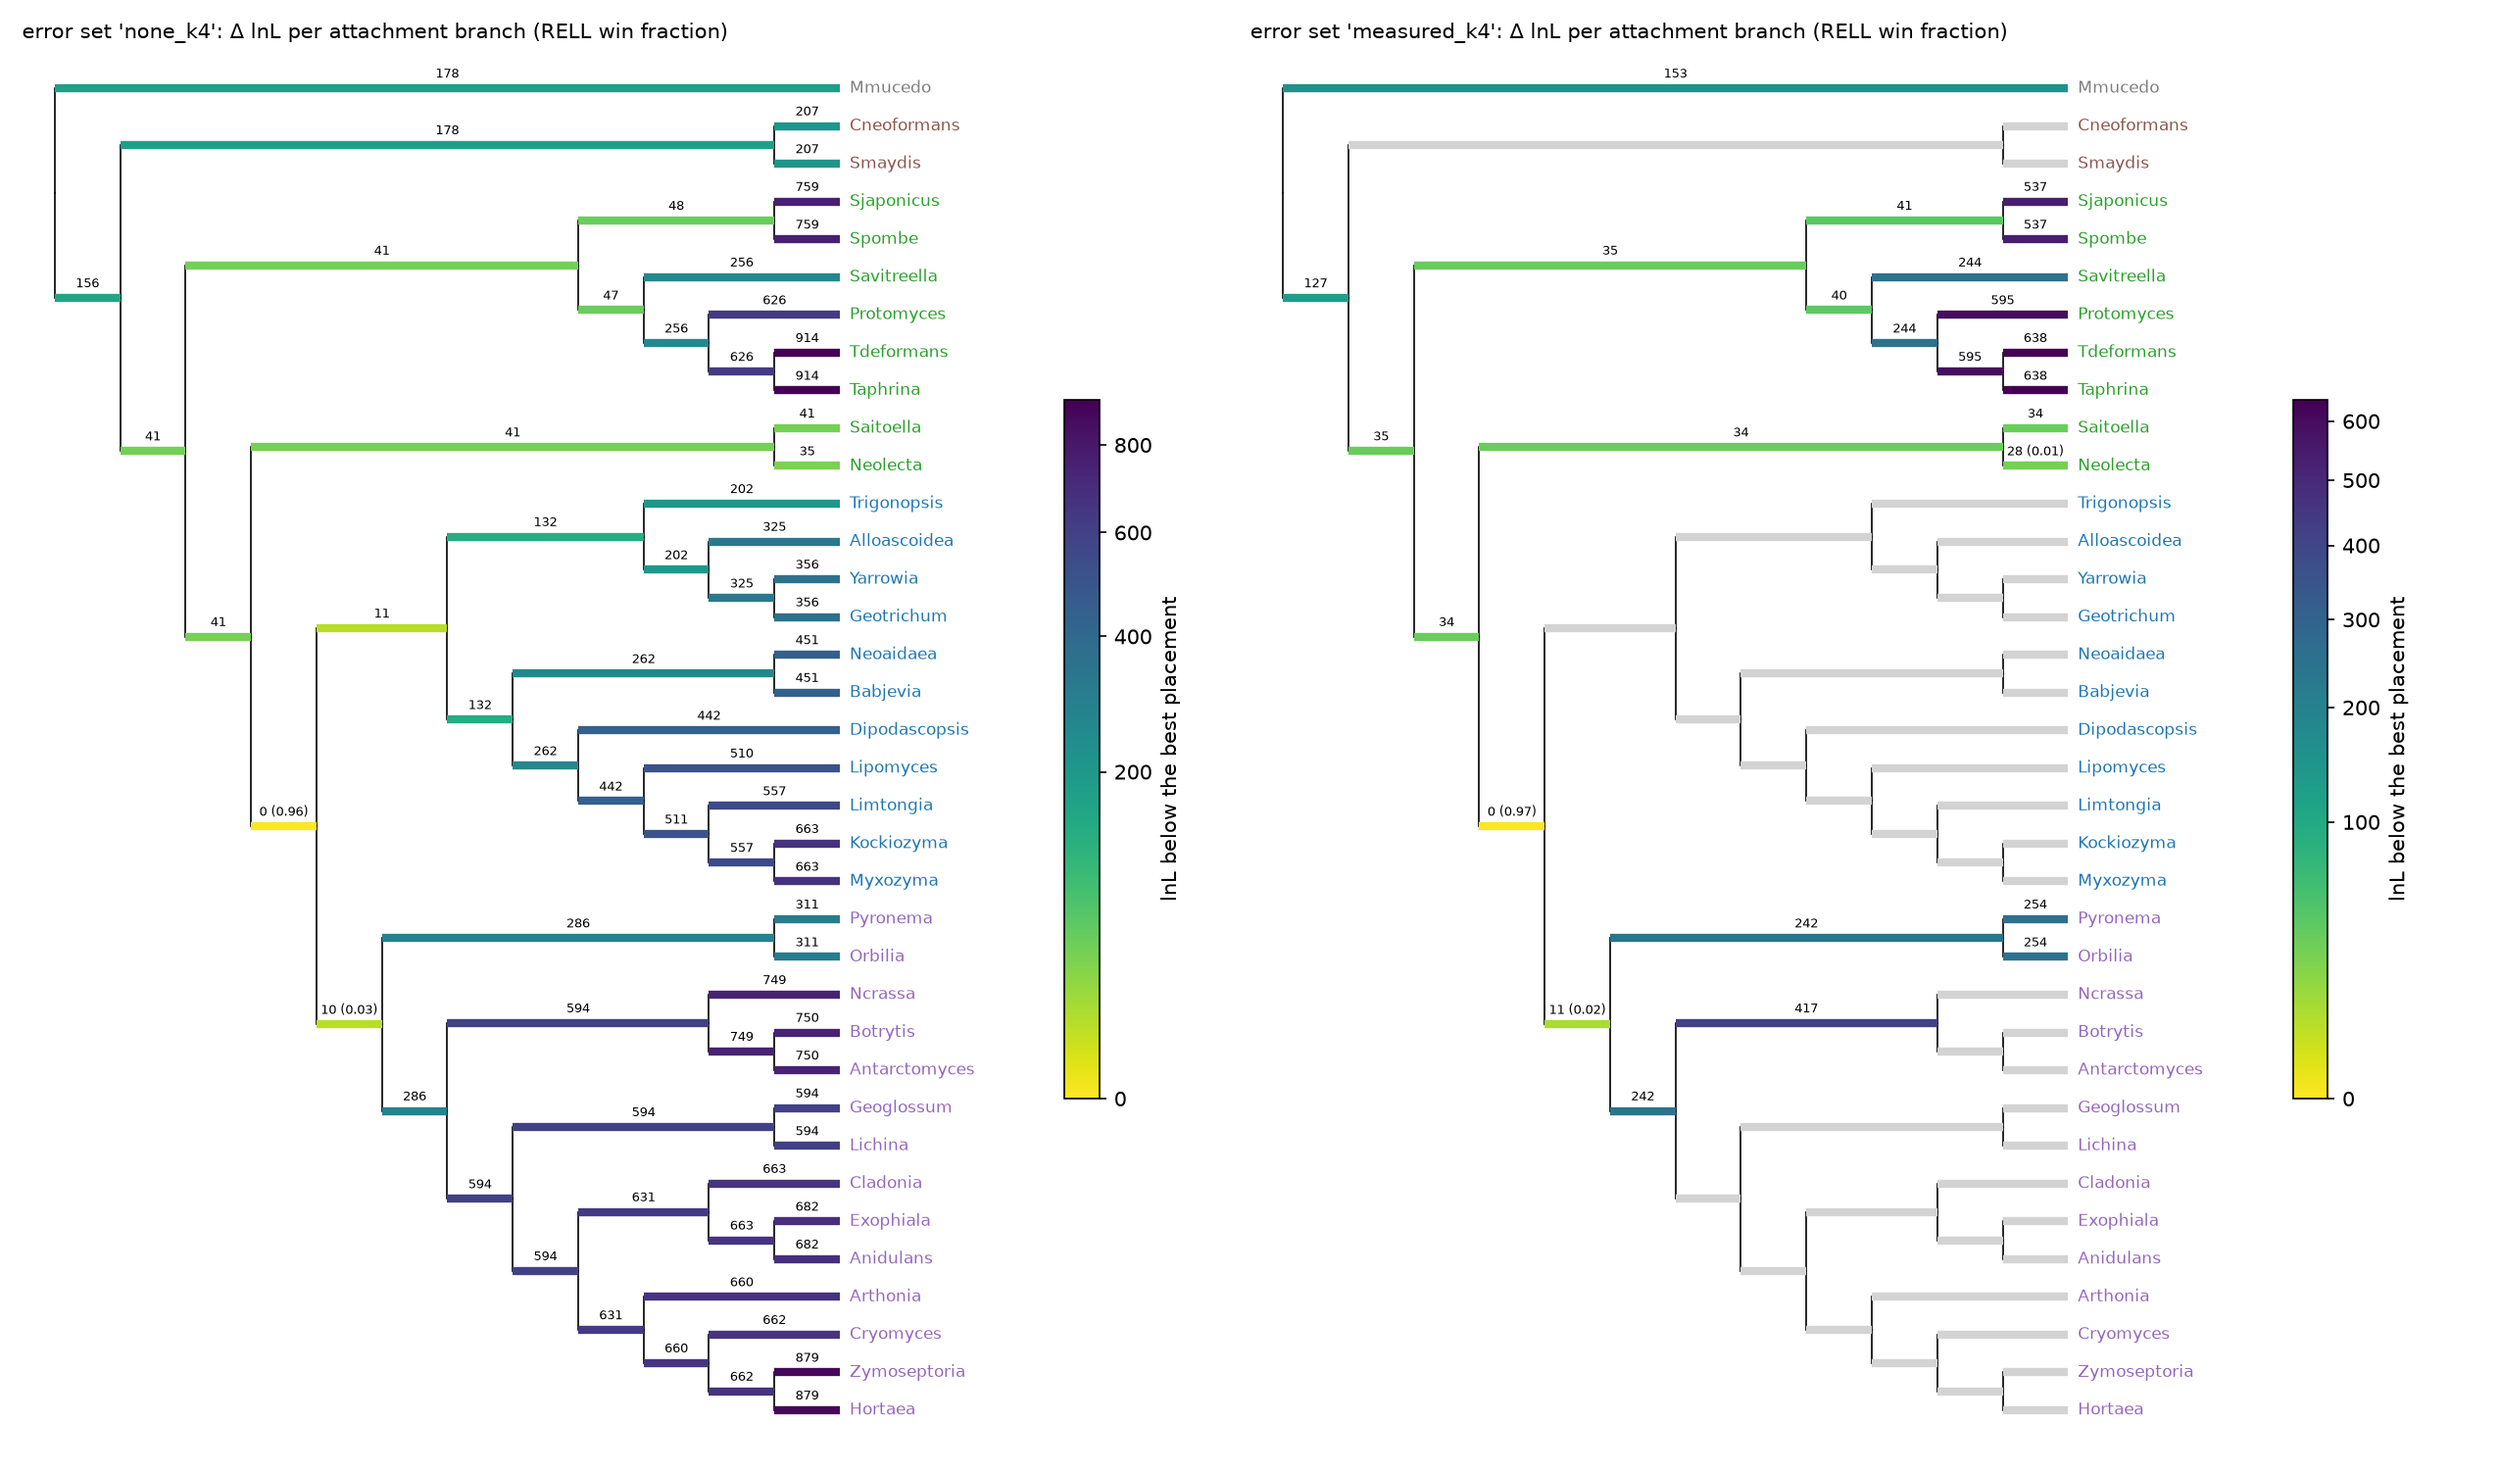
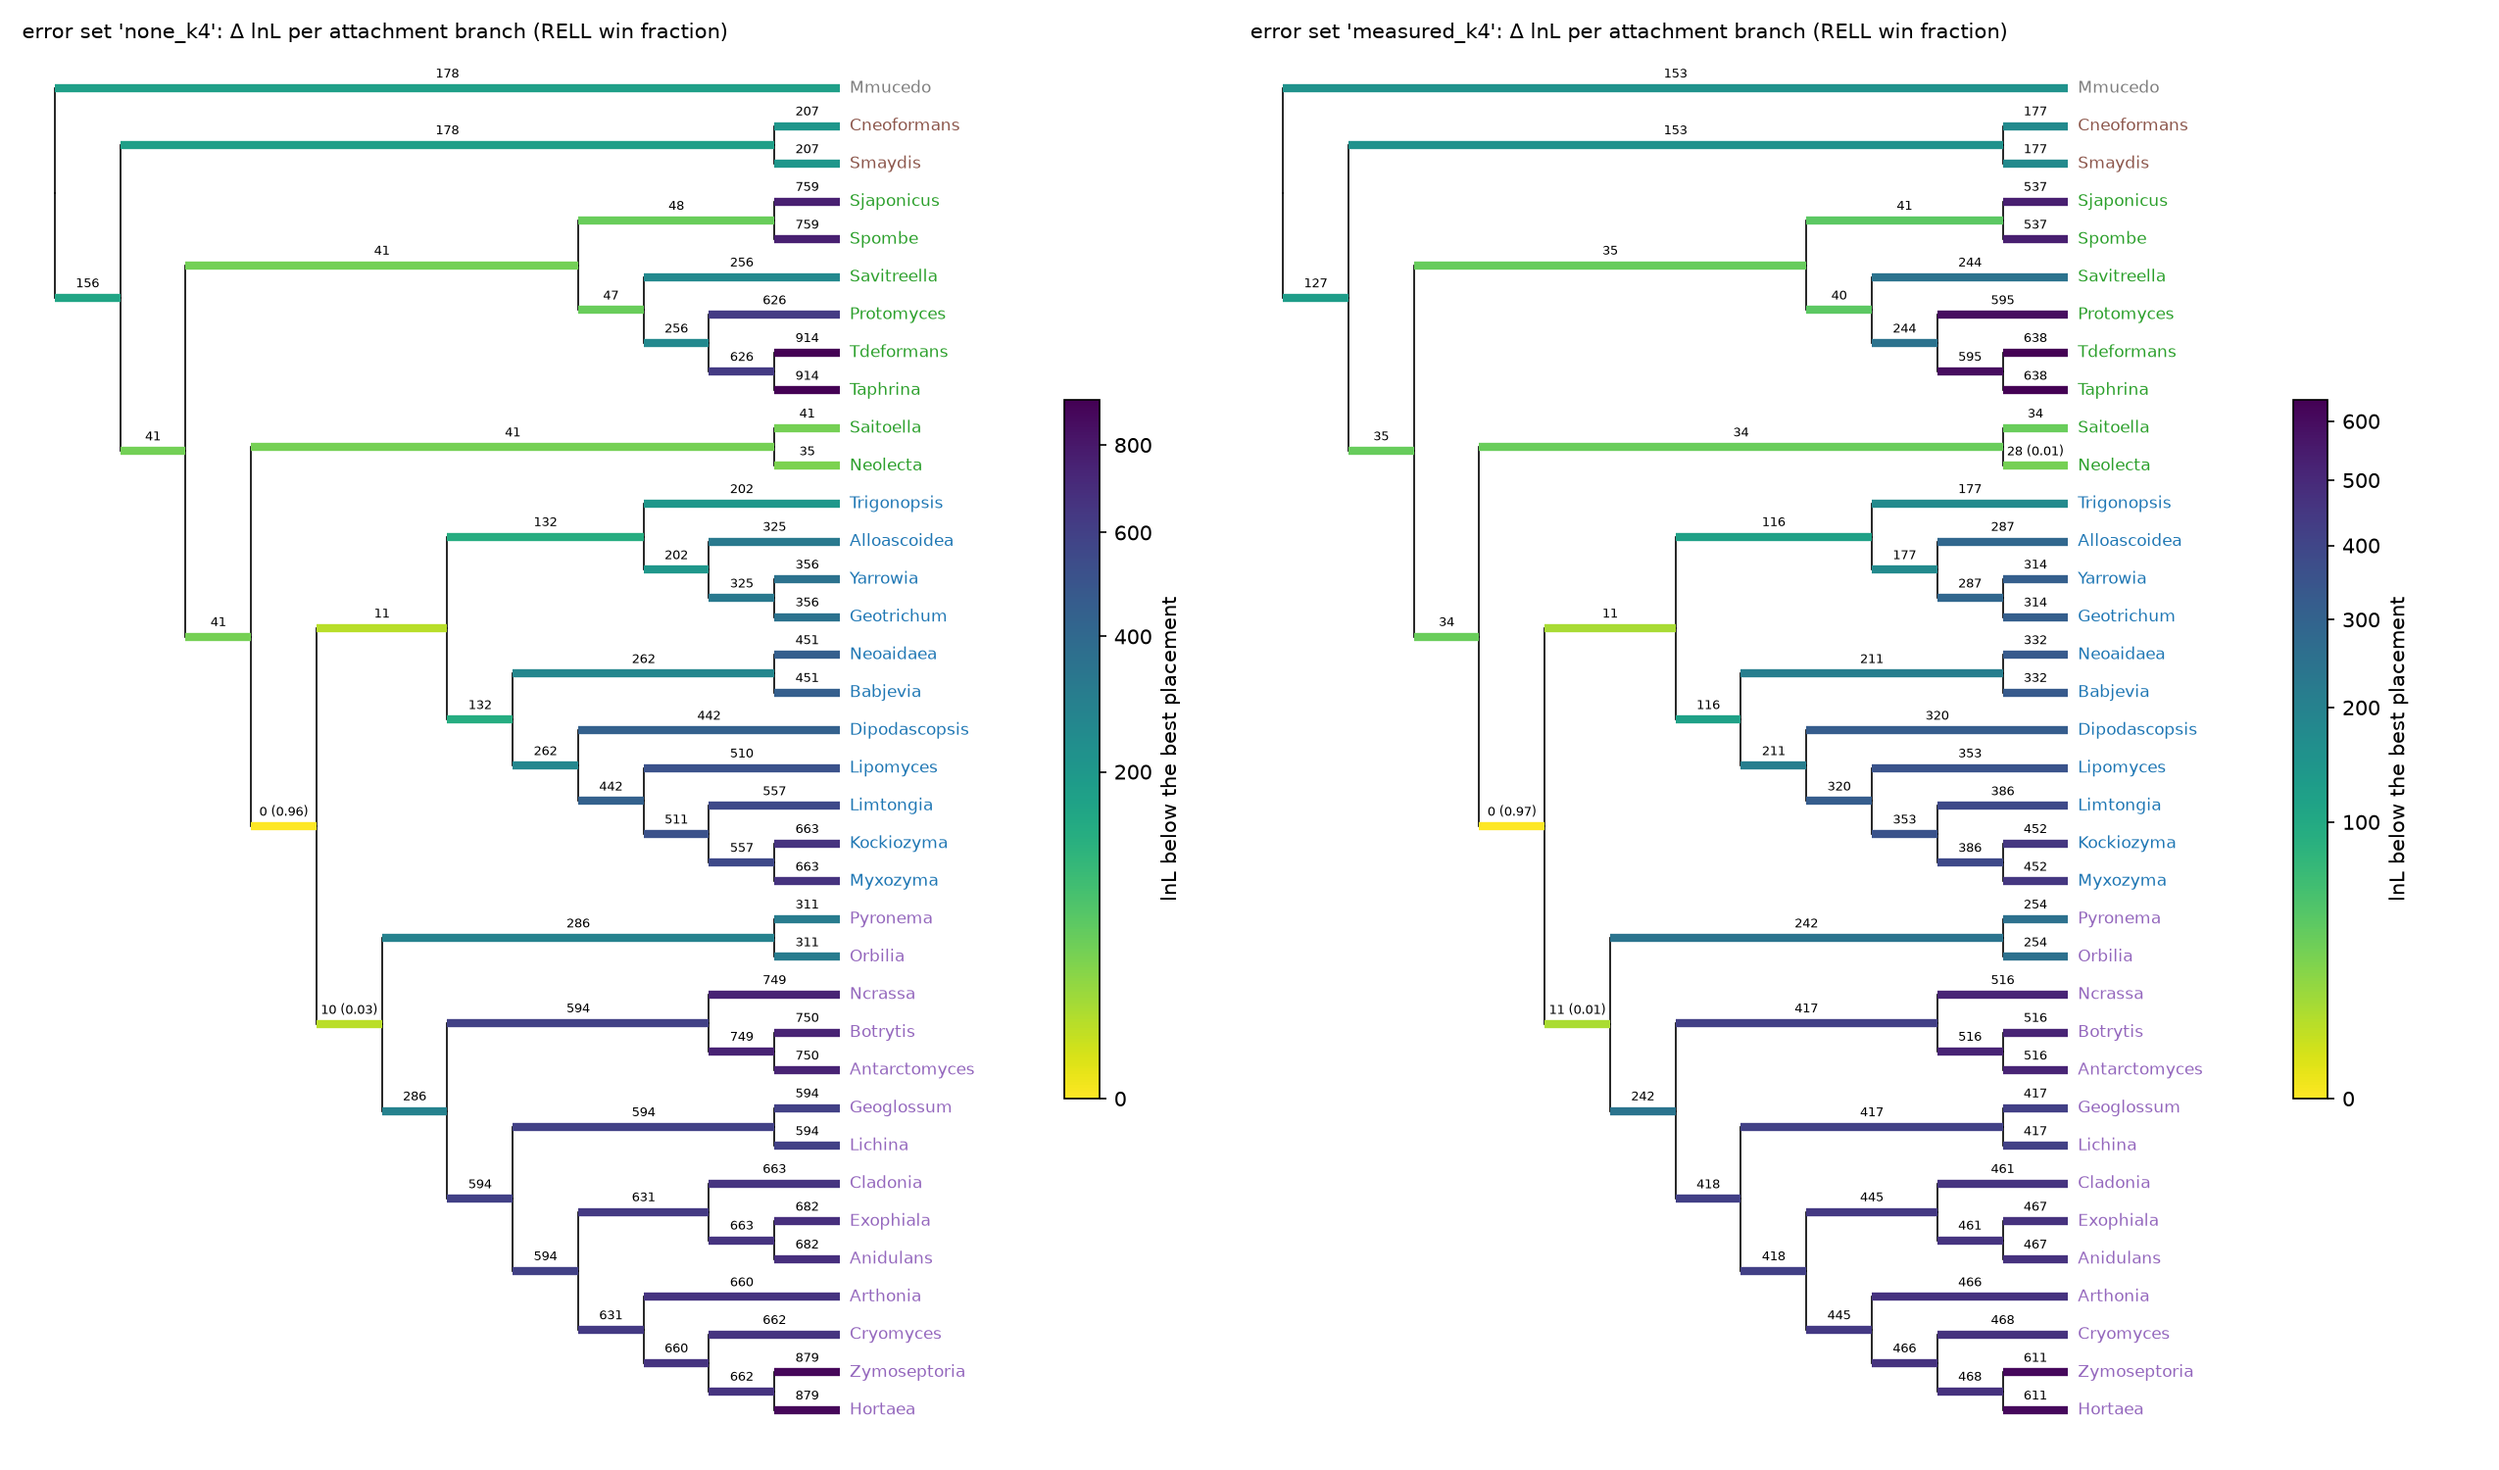
V15: measured-error placements with rate classes (all 71 converged), final tables and figures
Claude-Session: https://claude.ai/code/session_01CoSBcSDavKjY2XFn52dvDn

diff --git a/bench/V15_rate_variation/README.md b/bench/V15_rate_variation/README.md
@@ -69,16 +69,18 @@ win fraction is in brackets where it is at least 0.01.
 
 | Alith sister of | Δ lnL, 1 class (V14, none) | Δ lnL, 4 classes, none | RELL, 4 classes, none | Δ lnL / RELL, 4 classes, measured |
 |---|---|---|---|---|
-| **Saccharomycotina + Pezizomycotina** | 0 | 0 | **0.96** | MEASURED_19 |
-| Pezizomycotina | 4.5 | 10.1 | 0.03 | MEASURED_20 |
-| Saccharomycotina | 5.1 | 10.7 | 0.003 | MEASURED_47 |
-| *Neolecta* | 40.7 | 35.3 | 0.003 | MEASURED_18 |
-| *Neolecta* + *Saitoella* | 41.2 | 40.6 | 0 | MEASURED_16 |
-| *M. maydis* | 197 | 207 | 0 | MEASURED_70 |
-| *Yarrowia* | 448 | 356 | 0 | MEASURED_66 |
+| **Saccharomycotina + Pezizomycotina** | 0 | 0 | **0.96** | 0 / **0.97** |
+| Pezizomycotina | 4.5 | 10.1 | 0.03 | 10.5 / 0.01 |
+| Saccharomycotina | 5.1 | 10.7 | 0.003 | 10.6 / 0.004 |
+| *Neolecta* | 40.7 | 35.3 | 0.003 | 27.7 / 0.01 |
+| *Neolecta* + *Saitoella* | 41.2 | 40.6 | 0 | 33.9 / 0 |
+| *M. maydis* | 197 | 207 | 0 | 177 / 0 |
+| *Yarrowia* | 448 | 356 | 0 | 314 / 0 |
 
 Rate classes keep the same best placement and **double the margin over both shallower alternatives**: sister to Pezizomycotina goes
-from Δ 4.5 to 10.1, RELL 0.13 → 0.03. Attraction to intron-poor genomes stays absent.
+from Δ 4.5 to 10.1 (no error) or 10.5 (measured error), RELL 0.13 → 0.01–0.03. The deeper positions next to *Neolecta* come
+somewhat closer under measured error (Δ 27.7) but win at most 1 % of resamples. Attraction to intron-poor genomes stays absent. All
+71 fits per error set converged.
 
 ## 3. Calibration: does the likelihood put intron-poor lineages in the right place?
 
@@ -115,7 +117,7 @@ is V13's every-position test, which picks the fewest losses.
 **What this means for Alith.**
 - The calibrated likelihood test errs towards the root, almost never away from it. A best placement as sister to Saccharomycotina +
   Pezizomycotina therefore means Alith attaches there **or shallower**: as sister to Pezizomycotina or to Saccharomycotina.
-- Deeper positions are not supported. Next to *Neolecta*/*Saitoella* or at the base of the Ascomycota they are 35–41 lnL worse, and
+- Deeper positions are not supported. Next to *Neolecta*/*Saitoella* or at the base of the Ascomycota they are 28–41 lnL worse (RELL ≤ 0.01), and
   the test's bias would favour them, not penalise them.
 - This is the same bound V13 found with Dollo's carried-positions test, now from a model that handles annotation error and rate
   variation. The intron data cannot by themselves choose between sister to Saccharomycotina + Pezizomycotina and sister to

diff --git a/docs/ANTARCTOLITHICA_PLACEMENT.md b/docs/ANTARCTOLITHICA_PLACEMENT.md
@@ -49,7 +49,7 @@ rest, Alith swept from 1.0 to 0.7):
   - Alith's parent: about 8,700 positions [8,000-9,300].
   - Alith's stem: about 7,600 losses [7,000-8,200].
   - Alith's own ancestor stays near 1,400 positions.
-- **Placement with classes:** still sister to Saccharomycotina + Pezizomycotina (RELL 0.96 without error). The margin over sister to
+- **Placement with classes:** still sister to Saccharomycotina + Pezizomycotina (RELL 0.96 without error, 0.97 with measured error). The margin over sister to
   Pezizomycotina or to Saccharomycotina doubles to about 10 lnL.
 - **Calibration** (V13's thinned stand-ins, with the likelihood):
   - On age-matched stand-ins, the likelihood is right twice as often as Dollo (39 vs 19 of 75).
@@ -57,7 +57,7 @@ rest, Alith swept from 1.0 to 0.7):
   - Four rate classes push errors further towards the root (right 17 of 45, 22 deeper, 3 shallower).
   - Wrong deeper picks win by a median of 2.5-4.3 lnL (up to about 50).
 - **Reading for Alith:** the test errs towards the root, so its best placement means Alith attaches there or shallower. That is
-  sister to Saccharomycotina + Pezizomycotina, or sister to Pezizomycotina or to Saccharomycotina. Deeper positions are 35-41 lnL
+  sister to Saccharomycotina + Pezizomycotina, or sister to Pezizomycotina or to Saccharomycotina. Deeper positions are 28-41 lnL
   worse even though the bias favours them. The intron data alone cannot choose among the three shallow options; V11's sequence
   likelihood prefers the first.
 
